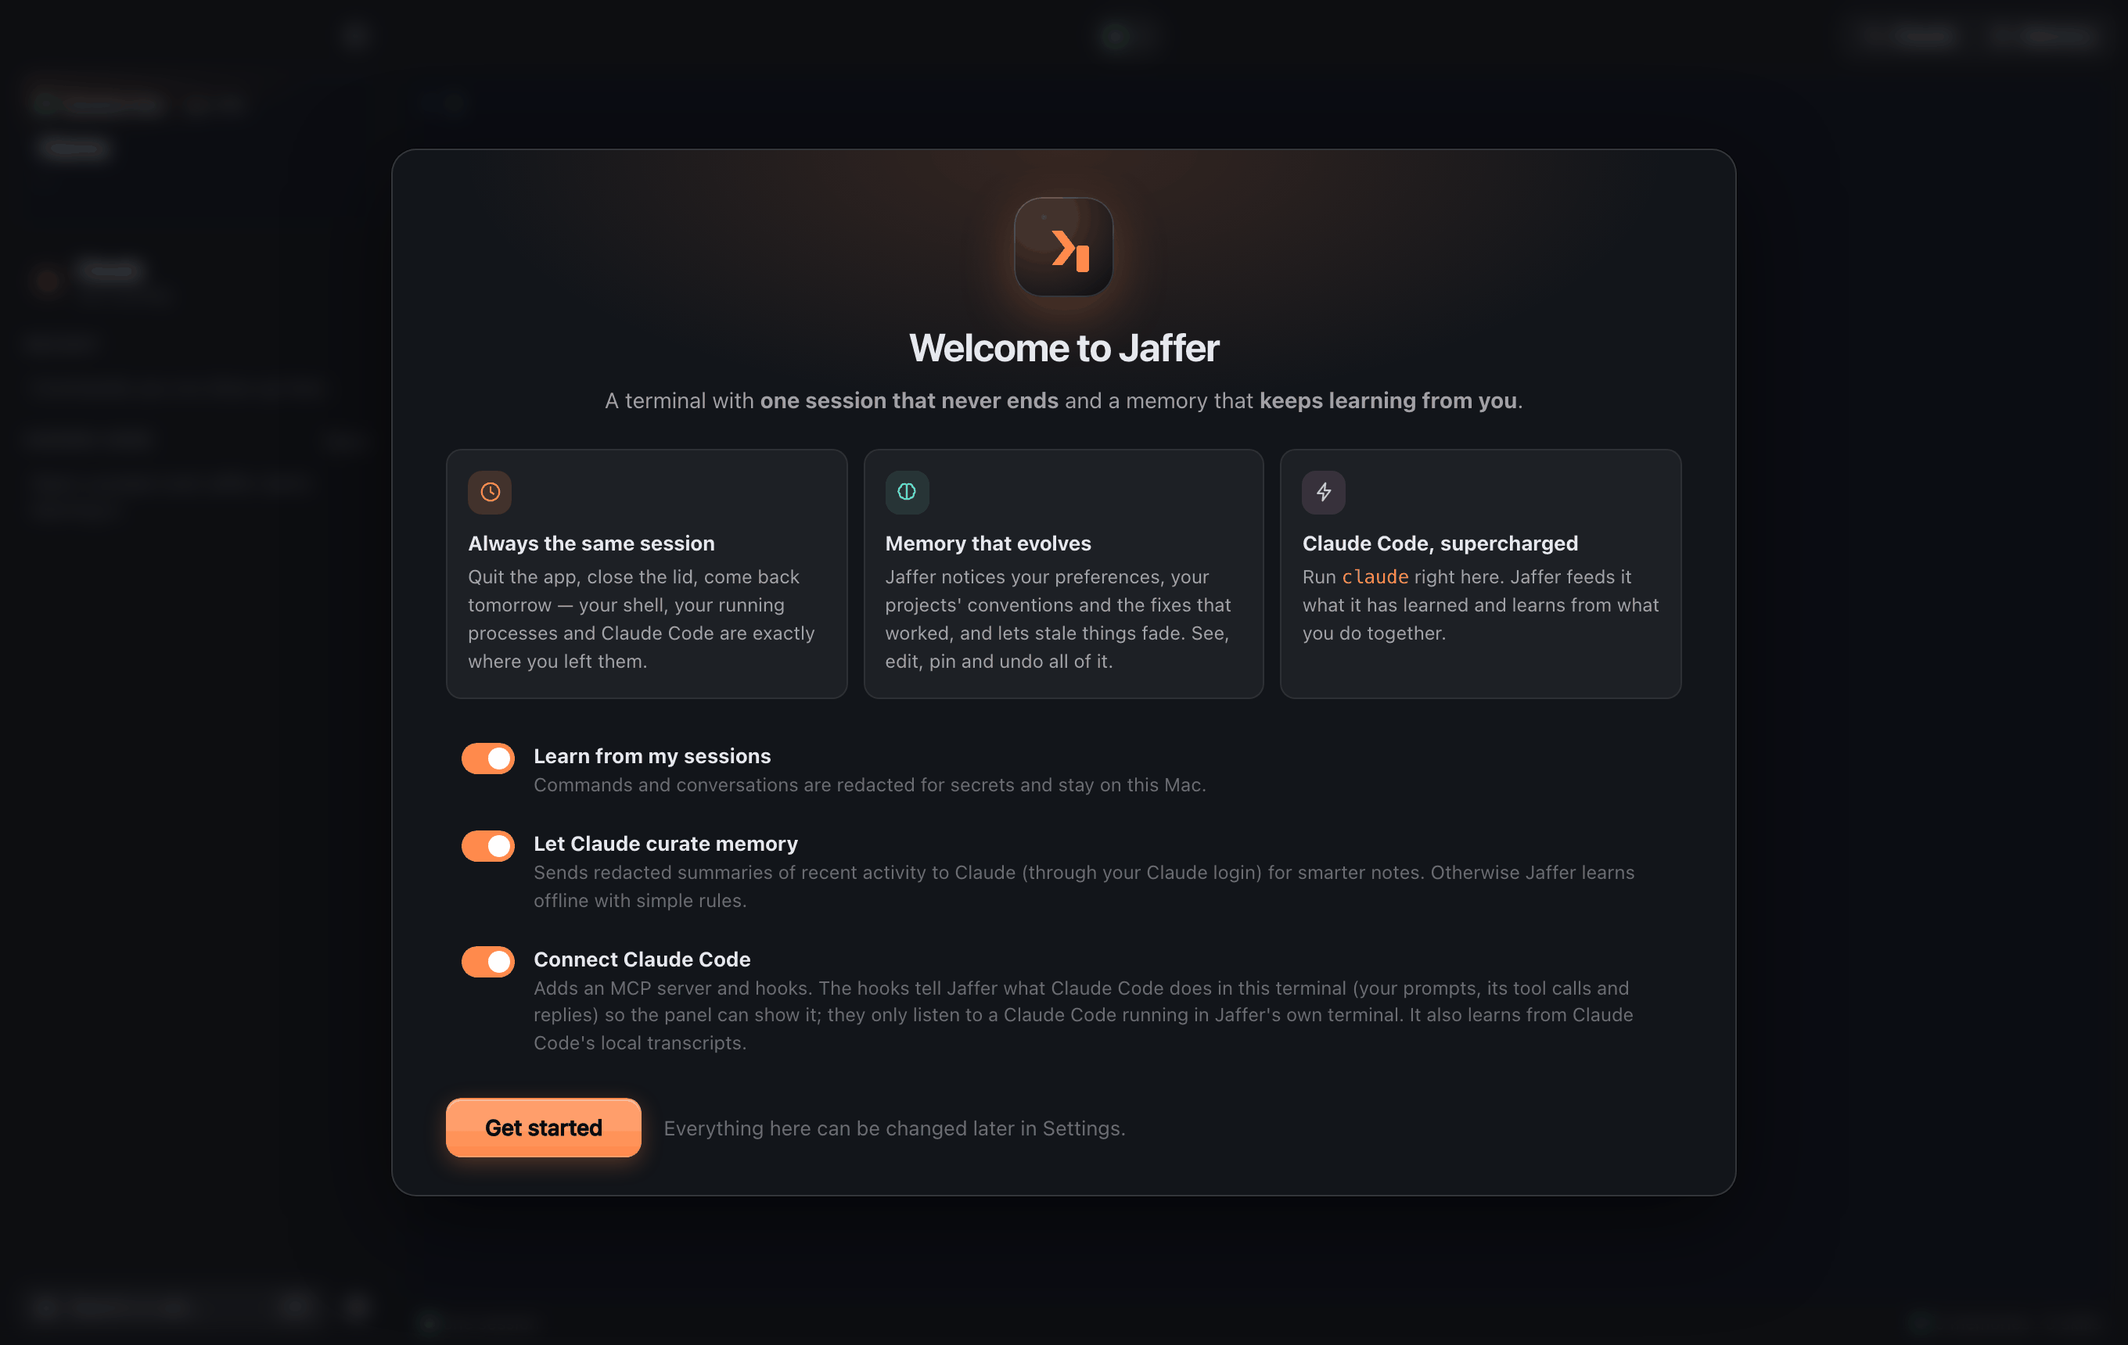
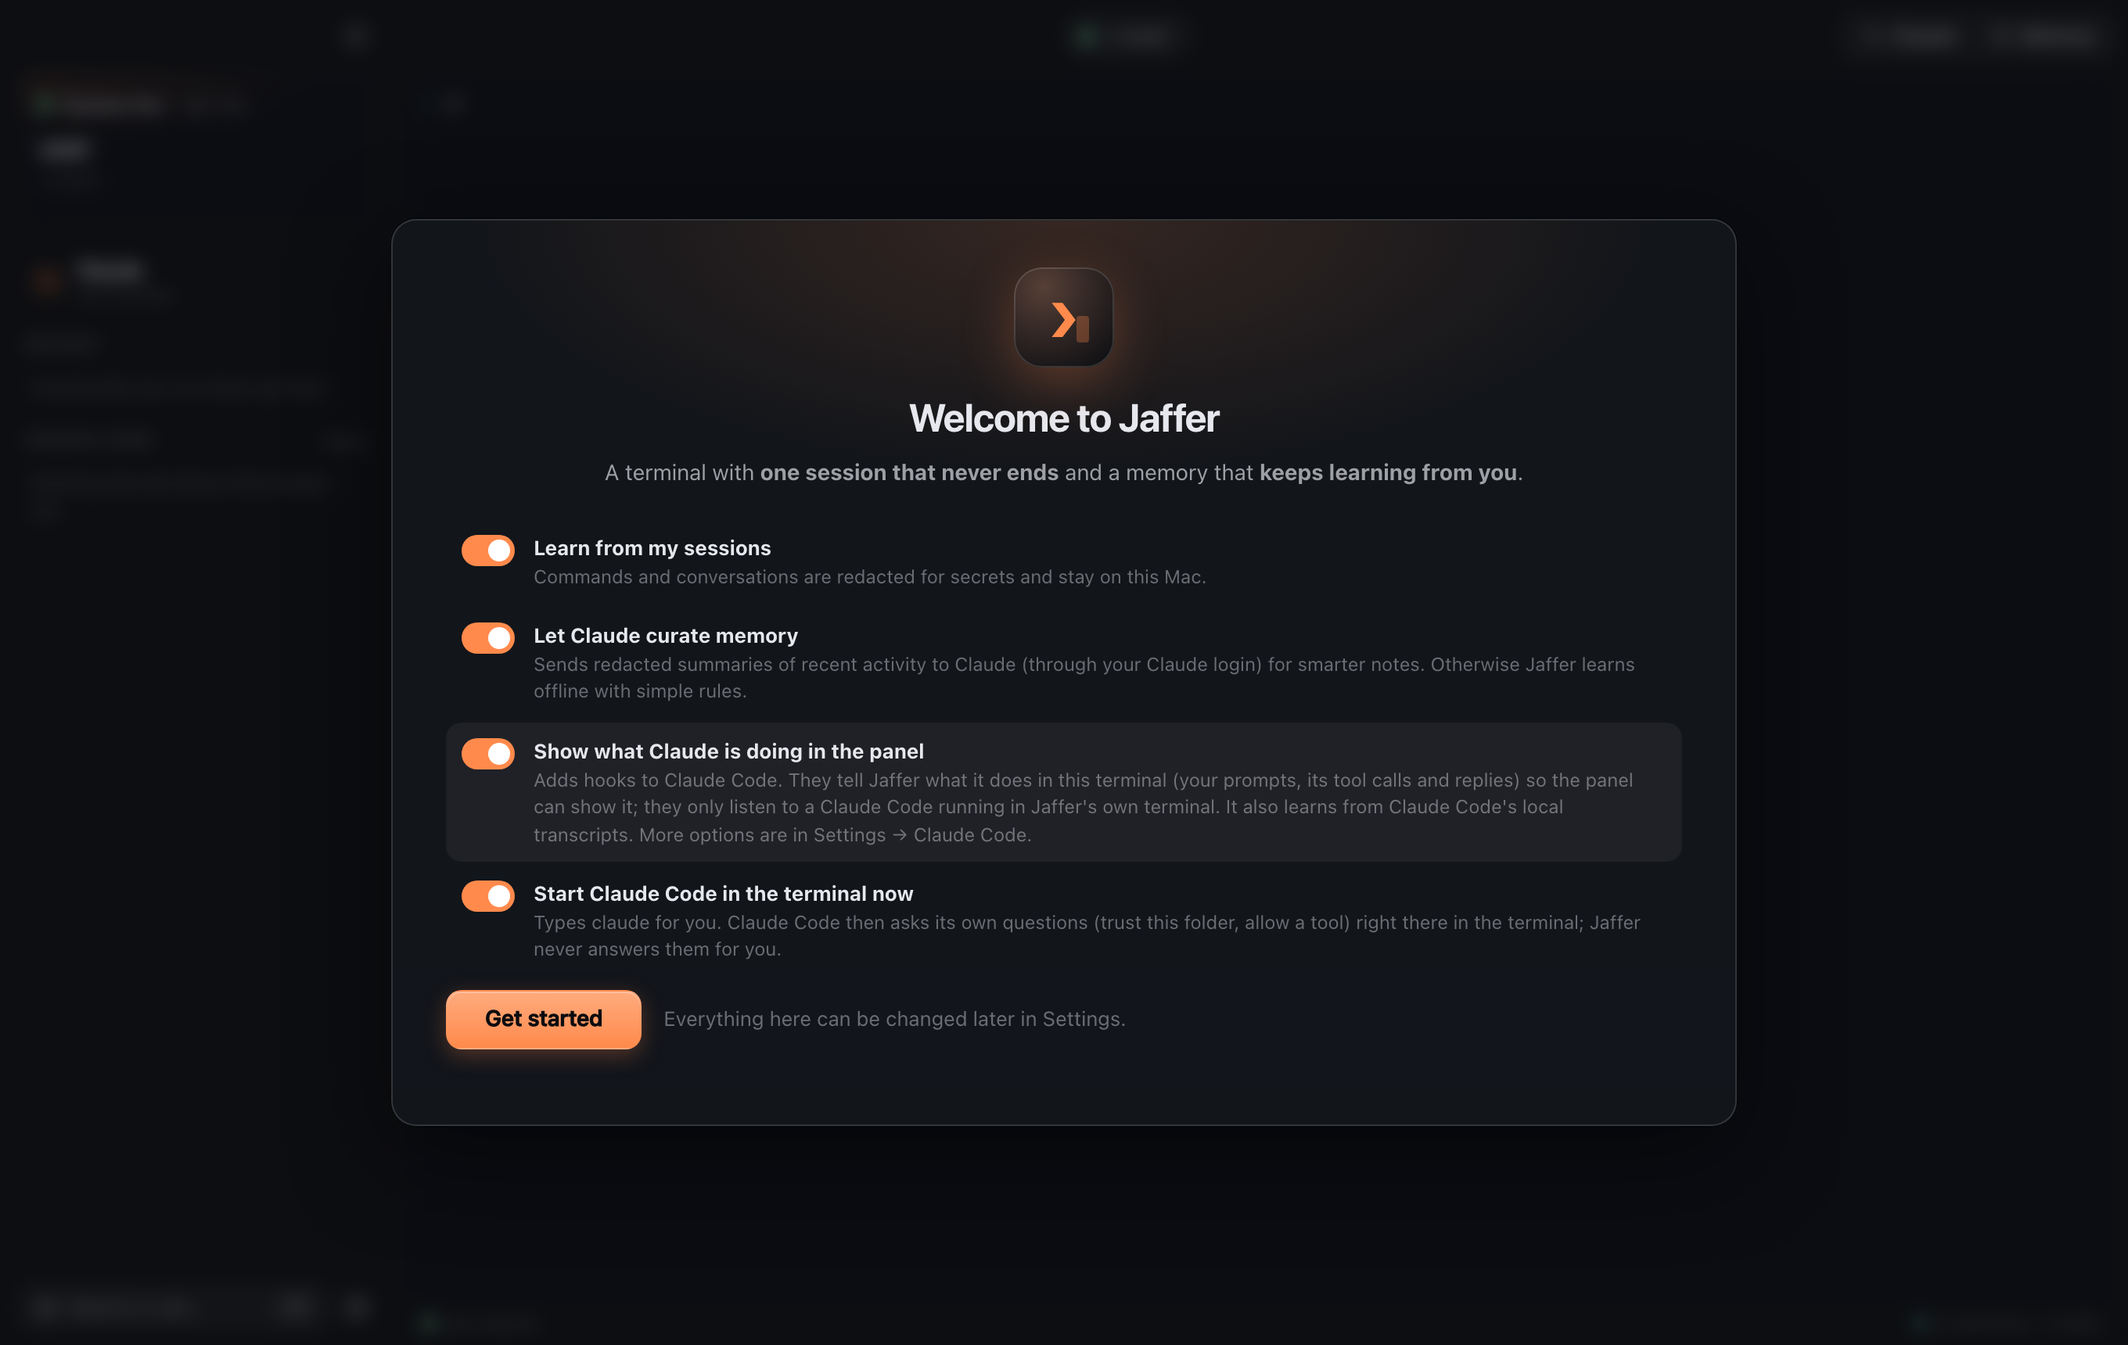
onboarding: start Claude Code in the terminal for the person (a switch, on by default), footer always in view, ordinary windows fit all four choices

diff --git a/test/e2e/ui.test.ts b/test/e2e/ui.test.ts
@@ -67,7 +67,7 @@ beforeAll(async () => {
   fs.mkdirSync(path.join(env.userHome, '.codex'), { recursive: true });
   fs.mkdirSync(path.join(env.userHome, '.gemini'), { recursive: true });
   // `claude` as the app finds it: signed out at first, and the real binary for everything except `claude auth`.
-  fake = fakeClaude(path.join(env.root, 'bin'), { loggedIn: false, passthrough: CLAUDE });
+  fake = fakeClaude(path.join(env.root, 'bin'), { loggedIn: false, passthrough: CLAUDE, interactive: 'stub' });
   mock = new MockAnthropic();
   const mockUrl = await mock.listen();
   bridge = spawn(process.execPath, [path.join(root, 'dist/dev/bridge.cjs')], {
@@ -122,7 +122,27 @@ describe('Jaffer UI end to end', () => {
     expect(choices).toMatch(/hooks/i); // what connecting Claude Code does is said plainly: the hooks see its prompts and tool calls
     expect(choices).toMatch(/your prompts, its tool calls and replies/i);
     expect(choices).not.toMatch(/MCP/); // the memory tools are Settings → Claude Code, not a first-run decision
+    // starting Claude Code is a choice too, on by default, and it says who answers Claude Code's own questions
+    const startBox = page.locator('.onboard .choices label', { hasText: 'Start Claude Code in the terminal now' }).locator('input[type=checkbox]');
+    expect(await startBox.count()).toBe(1);
+    expect(await startBox.isChecked()).toBe(true);
+    expect(choices).toMatch(/Jaffer never answers them for you/i);
+    const noArgCalls = () => fake.calls().filter((l) => l.startsWith(' HOME=')).length; // `claude` typed with nothing after it
     expect(choices).toContain('Get started');
+    // the way forward is always in view, however short the window: Get started stays inside the dialog without scrolling
+    for (const height of [860, 640]) {
+      await page.setViewportSize({ width: 1360, height });
+      await sleep(150);
+      const dialog = (await page.locator('.onboard').boundingBox())!;
+      const btn = (await page.locator('.onboard .btn.primary').boundingBox())!;
+      expect(btn.y + btn.height, `Get started inside the dialog at ${height}px high`).toBeLessThanOrEqual(dialog.y + dialog.height + 0.5);
+      if (height >= 800) {
+        // at an ordinary window height every choice is readable without scrolling: nothing sits behind the button
+        const last = (await page.locator('.onboard .choices label').last().boundingBox())!;
+        expect(last.y + last.height, `the last choice clear of Get started at ${height}px high`).toBeLessThanOrEqual(btn.y + 0.5);
+      }
+    }
+    await page.setViewportSize({ width: 1360, height: 860 });
     expect((await page.evaluate(() => window.jaffer.call('config.get'))).onboarded).toBe(false); // not done until they say so
     await shot('01-onboarding');
 
@@ -135,6 +155,8 @@ describe('Jaffer UI end to end', () => {
     expect(cfg.export.targets).not.toContain('codex');
     expect(fake.calls().some((l) => l.startsWith('auth login '))).toBe(true);
     expect(fake.calls().some((l) => l.startsWith('mcp add'))).toBe(false); // Get started connects the hooks for the panel, not the MCP server
+    await until(async () => noArgCalls() === 1, 15_000, 'Get started to start Claude Code in the terminal'); // typed for the person, once
+    await until(async () => /fake claude: interactive session/.test(await termText()), 10_000, 'Claude Code to answer in the terminal')
     // Jaffer drove the sign-in itself: nothing was typed into the user's shell
     await until(async () => /❯/.test(await termText()), 20_000, 'the shell prompt');
     expect(await termText()).not.toMatch(/auth login/);
@@ -145,6 +167,24 @@ describe('Jaffer UI end to end', () => {
     expect(await page.textContent('.panel-sub')).toMatch(/Live view of the Claude running in your terminal/);
   }, 90_000);
 
+
+  it('first run with "Start Claude Code" switched off: Get started types nothing into the terminal', async () => {
+    const noArgCalls = () => fake.calls().filter((l) => l.startsWith(' HOME=')).length;
+    const before = noArgCalls();
+    await page.evaluate(() => window.jaffer.call('config.patch', { onboarded: false }));
+    await page.goto(`${url}?debug=1&renderer=${process.env.JAFFER_RENDERER ?? 'dom'}`);
+    await page.waitForSelector('.onboard[data-step="choices"]', { timeout: 20_000 }); // already signed in: straight to the choices
+    await page.locator('.onboard .choices label', { hasText: 'Start Claude Code in the terminal now' }).locator('.switch').click();
+    expect(await page.locator('.onboard .choices label', { hasText: 'Start Claude Code in the terminal now' }).locator('input[type=checkbox]').isChecked()).toBe(false);
+    await page.click('.onboard .btn.primary');
+    await page.waitForSelector('.onboard', { state: 'detached' });
+    await page.waitForSelector('.term .xterm');
+    await until(async () => (await page.evaluate(() => window.jaffer.call('config.get'))).onboarded === true, 8_000, 'onboarding to finish');
+    await sleep(2_500); // long enough for a typed command to have run
+    expect(noArgCalls()).toBe(before);
+    await page.click('.seg-btn[title^="Claude"]'); // the tests after this one start from an open panel, as the first run leaves it
+    await page.waitForSelector('.panel-head');
+  }, 60_000);
   it('hosts a working shell: type, run, see output; colours and prompt render', async () => {
     await until(async () => /❯/.test(await termText()), 20_000, 'the shell prompt');
     await page.click('.term');

diff --git a/src/renderer/components/Overlays.tsx b/src/renderer/components/Overlays.tsx
@@ -3,7 +3,7 @@ import type { VNode } from 'preact';
 import { activePane, appVersion, cfg, checkClaudeSetup, overlay, patchConfig, setSide, toast, updateState, type ClaudeAuthState } from '../state';
 import type { UpdateState } from '../../shared/update-policy';
 import { InstallCommand } from './ClaudeInstall';
-import { actions, type Action } from '../actions';
+import { actions, runClaude, type Action } from '../actions';
 import { terminals } from './TerminalView';
 import { THEMES } from '../themes';
 import { IconAgent, IconBrain, IconCommandKey, IconGear, IconLayout, IconPalette, IconPlug, IconSearch, IconShield, IconTerminal, IconX, IconBolt, IconClock, IconDownload } from './icons';
@@ -522,11 +522,19 @@ function SignInStep({ onDone }: { onDone: () => void }): VNode {
   );
 }
 
+/** The person said yes to starting Claude Code: wait for the terminal to be there and its prompt to draw, then type `claude` for them. */
+async function startClaudeWhenReady(): Promise<void> {
+  for (let i = 0; i < 50 && !terminals.get(activePane.value); i++) await new Promise((r) => setTimeout(r, 100));
+  await new Promise((r) => setTimeout(r, 400));
+  await runClaude();
+}
+
 export function Onboarding(): VNode {
   const [stage, setStage] = useState<'signin' | 'choices'>('signin');
   const [learn, setLearn] = useState(true);
   const [curate, setCurate] = useState(true);
   const [claude, setClaude] = useState(true);
+  const [start, setStart] = useState(true);
   const [busy, setBusy] = useState(false);
   const go = async () => {
     setBusy(true);
@@ -539,6 +547,7 @@ export function Onboarding(): VNode {
       if (claude) await call('setup.claude.install', { mcp: false }).catch((e) => toast({ kind: 'error', text: e.message })); // the hooks for the panel; the memory tools are a Settings choice
       overlay.value = null;
       setSide(null); // just the terminal at first; Claude's panel is one click or ⌘J away
+      if (start) void startClaudeWhenReady(); // after the hooks are in, so this very session is seen
     } finally {
       setBusy(false);
     }
@@ -609,6 +618,13 @@ export function Onboarding(): VNode {
                 <span class="t">
                   <b>Show what Claude is doing in the panel</b>
                   <small>Adds hooks to Claude Code. They tell Jaffer what it does in this terminal (your prompts, its tool calls and replies) so the panel can show it; they only listen to a Claude Code running in Jaffer's own terminal. It also learns from Claude Code's local transcripts. More options are in Settings → Claude Code.</small>
+                </span>
+              </label>
+              <label>
+                <Switch checked={start} onChange={setStart} />
+                <span class="t">
+                  <b>Start Claude Code in the terminal now</b>
+                  <small>Types claude for you. Claude Code then asks its own questions (trust this folder, allow a tool) right there in the terminal; Jaffer never answers them for you.</small>
                 </span>
               </label>
             </div>

diff --git a/test/helpers/fake-claude.ts b/test/helpers/fake-claude.ts
@@ -11,10 +11,12 @@ import path from 'node:path';
  *   mode "hang"        status and login never finish
  *   mode "login-fail"  login exits 1 without signing in
  *
+ * `interactive: 'stub'`: `claude` with no arguments (what typing `claude` in the terminal does) prints a line and exits 0 instead of
+ * starting the real TUI, so a test can see that something started Claude Code without a TUI taking over the shell.
  * Any other command goes to `passthrough` (the real claude) when one is given, so a test can keep using the real thing
  * for everything but the login state.
  */
-export function fakeClaude(dir: string, o: { loggedIn: boolean; mode?: string; passthrough?: string | null }) {
+export function fakeClaude(dir: string, o: { loggedIn: boolean; mode?: string; passthrough?: string | null; interactive?: 'stub' }) {
   fs.mkdirSync(dir, { recursive: true });
   const bin = path.join(dir, 'claude');
   const state = path.join(dir, 'state');
@@ -27,6 +29,7 @@ export function fakeClaude(dir: string, o: { loggedIn: boolean; mode?: string; p
     `#!/bin/sh
 D=${JSON.stringify(dir)}
 REAL=${JSON.stringify(o.passthrough ?? '')}
+INTERACTIVE=${JSON.stringify(o.interactive ?? '')}
 echo "$* HOME=$HOME KEY=\${ANTHROPIC_API_KEY:+set}" >> "$D/calls.log"
 M=$(cat "$D/mode")
 S=$(cat "$D/state")
@@ -52,6 +55,7 @@ if [ "$1" = "auth" ] && [ "$2" = "login" ]; then
   echo in > "$D/state"
   exit 0
 fi
+if [ "$#" -eq 0 ] && [ "$INTERACTIVE" = stub ]; then echo "fake claude: interactive session"; exit 0; fi
 if [ -n "$REAL" ]; then exec "$REAL" "$@"; fi
 echo "fake claude: unsupported: $*" >&2
 exit 64

diff --git a/src/renderer/styles.css b/src/renderer/styles.css
@@ -618,7 +618,10 @@ kbd { display: inline-flex; align-items: center; height: 18px; font-size: 10.5px
 .ob-actions { display: flex; align-items: center; justify-content: center; gap: 10px; }
 .ob-error { margin: 0; font-size: 12.5px; color: var(--danger); line-height: 1.45; }
 .ob-note { margin: 2px 0 0; font-size: 12px; line-height: 1.5; text-align: center; }
-.onboard-foot { display: flex; align-items: center; gap: 14px; margin-top: 18px; }
+/* An ordinary laptop window is under 900px high: the three feature cards are the part to give up, so that all four choices and the button fit. */
+@media (max-height: 900px) { .onboard .features { display: none; } .modal:has(.onboard) { max-height: 92vh; } }
+/* sticky: however short the window, the way forward stays in view while the choices scroll behind it */
+.onboard-foot { display: flex; align-items: center; gap: 14px; margin: 18px -34px -24px; padding: 14px 34px 24px; position: sticky; bottom: 0; z-index: 1; background: linear-gradient(to bottom, transparent, var(--surface) 18px); }
 
 @media (max-width: 860px) { .rail { display: none; } }
 @media (max-width: 760px) { .side { position: absolute; right: 8px; top: 0; bottom: 0; z-index: 8; } }

diff --git a/CLAUDE.md b/CLAUDE.md
@@ -15,13 +15,13 @@ Jaffer is a macOS terminal (Electron + a detached session daemon) with one never
 - Updates ask first: nothing installs without a click (`autoInstallOnAppQuit` stays off, quitting never replaces the app behind a running session), only a packaged, Developer ID signed app checks, and `latest-mac.yml` is uploaded last and only by `scripts/release-mac.sh` (never by CI previews).
 - Jaffer is for Claude Code only. Don't add integrations, exports or copy for other agents (Codex, Gemini, ...); `export.targets` only knows `claude-code` and `ConfigStore` drops anything else a saved config still lists.
 - Jaffer runs on Claude subscriptions only: there is no Anthropic API key anywhere (no UI, no RPC, no CLI command, no engine), and `ANTHROPIC_API_KEY` is ignored. Don't add key entry back without being asked.
-- Whether the user is signed in to Claude comes only from `claude auth status` (`src/core/integrations/claude-auth.ts`): never read Claude's credential files or keychain item, and never let the account email or organisation out of that function. The first-run sign-in step has no skip and types nothing into the terminal; tests fake `claude` with `test/helpers/fake-claude.ts`.
+- Whether the user is signed in to Claude comes only from `claude auth status` (`src/core/integrations/claude-auth.ts`): never read Claude's credential files or keychain item, and never let the account email or organisation out of that function. The first-run sign-in step has no skip and types nothing into the terminal; tests fake `claude` with `test/helpers/fake-claude.ts`. The only thing the product ever types into the terminal is `claude` (⇧⌘C, and the first-run switch "Start Claude Code in the terminal now", on by default and worded plainly); Claude Code's own questions (trust, permissions) stay in the terminal and Jaffer never answers them.
 - There is exactly one session and one terminal: no splits, tabs, extra panes or second windows. `SessionHost` only ever spawns `main` and the daemon has no RPC to create another; don't add one (tests in `session.test.ts`, `daemon.test.ts` and the UI e2e guard this).
 - Don't use a global CSS class name that is also a layout utility (`.row`) for state (we shipped that bug once). CSS here is global: before adding a modifier class (`.tag.run`, `.row-ico.agent`, `.seg-btn.mem` were all real bugs), check it is not already a standalone selector (`.run`, `.agent`, `.mem`).
 - The renderer's colours are layered tokens from `themes.ts` (`--chrome`, `--surface`, `--raised`); use them instead of literals so every theme works. The UI shows commands only through `safeCommand()` (redacts, hides sensitive ones).
 
 - There is one Claude: the `claude` in the terminal. Don't add a second chat, a prompt box or a background `claude` that talks for the user; the panel only shows what Claude Code's hooks report. The hooks (`jaffer hook <event>`) are asynchronous, print nothing, exit 0 on every path, and do nothing unless `JAFFER_SESSION=1`; anything shown from a payload is redacted first (`ClaudeWatcher`). For the approvals release: Jaffer answers a permission prompt **allow** only after a human click, **deny** is always safe, and any failure leaves Claude Code's own prompt in charge. Never start `claude` with `--dangerously-skip-permissions` or a mode that auto-allows.
-- Keystrokes injected into the user's shell must not be eaten by leftover input state: `runCommand` prefixes a NUL for bash and zsh (a pending Escape used to swallow the first byte). The product no longer injects commands itself, but the code and its tests stay; test any change to injection against bash and zsh.
+- Keystrokes injected into the user's shell must not be eaten by leftover input state: `runCommand` prefixes a NUL for bash and zsh (a pending Escape used to swallow the first byte). The product only types `claude` itself (through the renderer's terminal, not `runCommand`), but the code and its tests stay; test any change to injection against bash and zsh.
 
 ## Verify
 `npm run typecheck && npm test` (real PTYs, bash+zsh, bundled daemon/CLI as processes, the real `claude` against a mock API and `test/helpers/fake-claude.ts` for the sign-in; `claude`-dependent tests skip if `claude` is absent). `npm run test:e2e` drives the UI in Chromium (`JAFFER_CHROME=/path/to/chrome`, screenshots in `$JAFFER_SHOTS`; use `?renderer=dom` for screenshots in headless). macOS CI also boots the packaged app (`JAFFER_SMOKE=1`). Known flaky on a Mac, also on `main`: the real-`claude` TUI test and some PTY "refuses to inject" tests; the README screenshots test (`npm run screenshots`) is written for Linux CI (it needs a short `TMPDIR` because of the unix socket path limit, and `/bin/zsh` on macOS).

diff --git a/README.md b/README.md
@@ -40,7 +40,7 @@ git clone https://github.com/jafforgehq/jaffer && cd jaffer
 ./scripts/install-mac.sh        # needs Node 22+; builds and copies Jaffer.app to /Applications
 ```
 
-On first launch Jaffer asks what it may do (sign in to Claude, learn from your sessions, show what Claude is doing in the panel). Nothing is on until you say so.
+On first launch Jaffer asks what it may do (sign in to Claude, learn from your sessions, show what Claude is doing in the panel, and start Claude Code in the terminal for you). Nothing is on until you say so, and Claude Code's own questions (trust this folder, allow a tool) are always answered by you, in the terminal.
 
 ## What the window gives you
 
